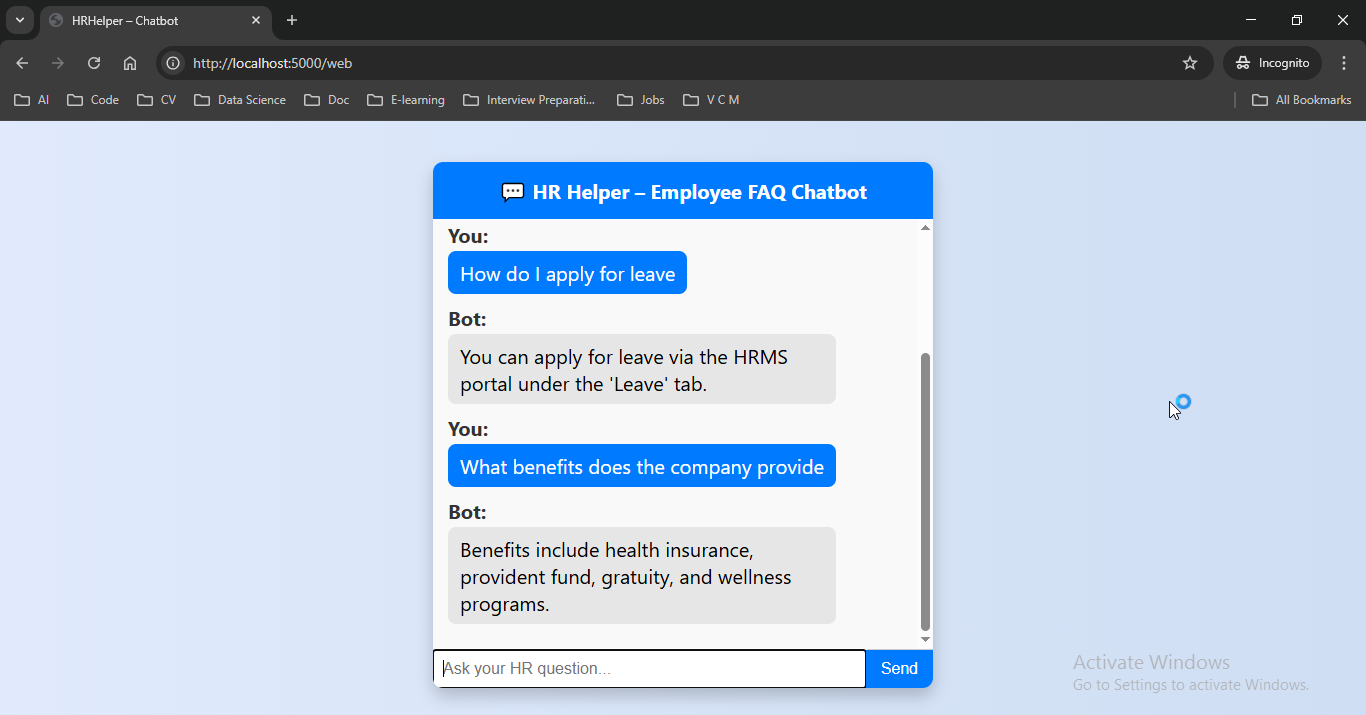
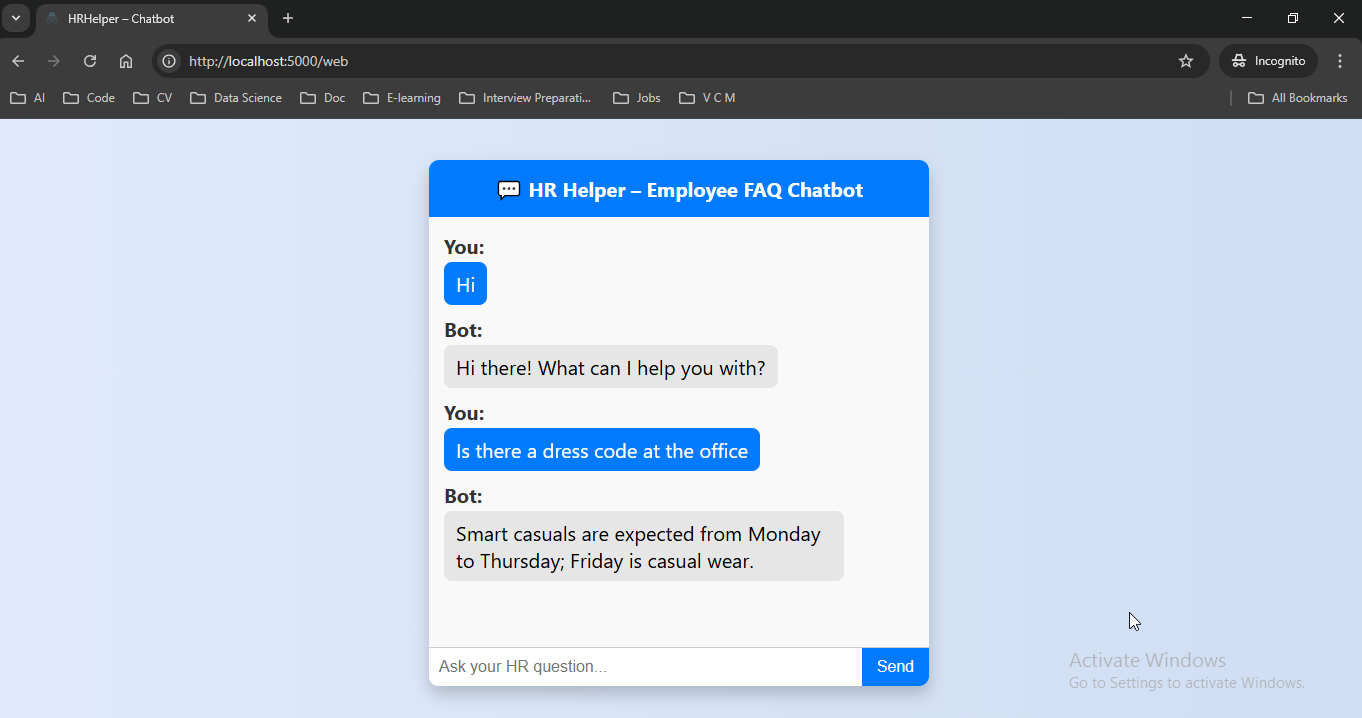
Add files via upload

diff --git a/Chatbot.py b/Chatbot.py
@@ -3,15 +3,16 @@ import re
 import requests
 import json
 import logging
+from datetime import datetime
 from flask import Flask, request, jsonify, render_template, redirect
 from rapidfuzz import process, fuzz
 
 app = Flask(__name__)
 
-# Path to FAQ JSON file
+# Path FAQ JSON file
 file_path = r"D:\07-SANKET\Task\data.json"
 
-# Load FAQ dataset
+# FAQ dataset
 with open(file_path, "r", encoding="utf-8") as f:
     faq_data = json.load(f)
 
@@ -23,6 +24,21 @@ logging.basicConfig(
     level=logging.INFO,
     format='%(asctime)s %(message)s'
 )
+
+PROMPT_LOG_PATH = "prompt_log.md"
+
+
+def log_prompt_interaction(user_question, bot_response):
+    """Append interaction log entry to prompt_log.md in markdown format"""
+    timestamp = datetime.now().strftime("%Y-%m-%d %H:%M:%S")
+    entry = (
+        f"## Interaction on {timestamp}\n"
+        f"**User Question**: {user_question}\n\n"
+        f"**Bot Response**: {bot_response}\n\n"
+        "---\n\n"
+    )
+    with open(PROMPT_LOG_PATH, "a", encoding="utf-8") as log_file:
+        log_file.write(entry)
 
 
 @app.route("/")
@@ -50,10 +66,13 @@ def chat():
     if score >= threshold:
         answer = next(item["answer"]
                       for item in faq_data if item["question"] == matched_question)
-        return jsonify({"answer": answer})
     else:
         logging.info(f"Unknown question: {user_message}")
-        return jsonify({"answer": "Sorry, I don't have an answer for that. We'll review your question soon."})
+        answer = "Sorry, I don't have an answer for that. We'll review your question soon."
+
+    log_prompt_interaction(user_message, answer)
+
+    return jsonify({"answer": answer})
 
 
 @app.route("/slack/events", methods=["POST"])
@@ -84,6 +103,8 @@ def slack_events():
             else:
                 answer = "Sorry, I don't have an answer for that. We'll review your question soon."
                 logging.info(f"Unknown Slack question: {cleaned_text}")
+
+            log_prompt_interaction(cleaned_text, answer)
 
             bot_token = os.getenv("SLACK_BOT_TOKEN")
             if bot_token:

diff --git a/FAQ dataset.py b/FAQ dataset.py
@@ -5,7 +5,7 @@ faq_data = [
     {"question": "What is the company's leave policy?",
         "answer": "Employees are entitled to 20 paid leaves per year."},
     {"question": "How do I apply for leave?",
-        "answer": "You can apply for leave via the HRMS portal under the 'Leave' tab."},
+        "answer": "You can apply for leave via the portal under the 'Leave' tab."},
     {"question": "Can I carry forward unused leaves?",
         "answer": "Yes, up to 10 days can be carried forward to the next year."},
     {"question": "What are the official working hours?",
@@ -17,7 +17,7 @@ faq_data = [
     {"question": "Does the company provide health insurance?",
         "answer": "Yes, we offer health insurance for employees and their dependents."},
     {"question": "How do I update my personal details?",
-        "answer": "You can update your personal information in your HRMS profile under 'My Info'."},
+        "answer": "You can update your personal information in your profile under 'My Info'."},
     {"question": "When is the salary credited?",
         "answer": "Salary is credited by the 5th of every month."},
     {"question": "Are there any performance bonuses?",

diff --git a/prompt_log.md b/prompt_log.md
@@ -47,3 +47,17 @@
 - All other questions matched existing FAQ entries.  
 - Consider expanding the dataset to include office facilities and pet policy if relevant.
 
+## Interaction on 2025-07-30 18:26:10
+**User Question**: Hi
+
+**Bot Response**: Hi there! What can I help you with?
+
+---
+
+## Interaction on 2025-07-30 18:26:47
+**User Question**: Is there a dress code at the office
+
+**Bot Response**: Smart casuals are expected from Monday to Thursday; Friday is casual wear.
+
+---
+
